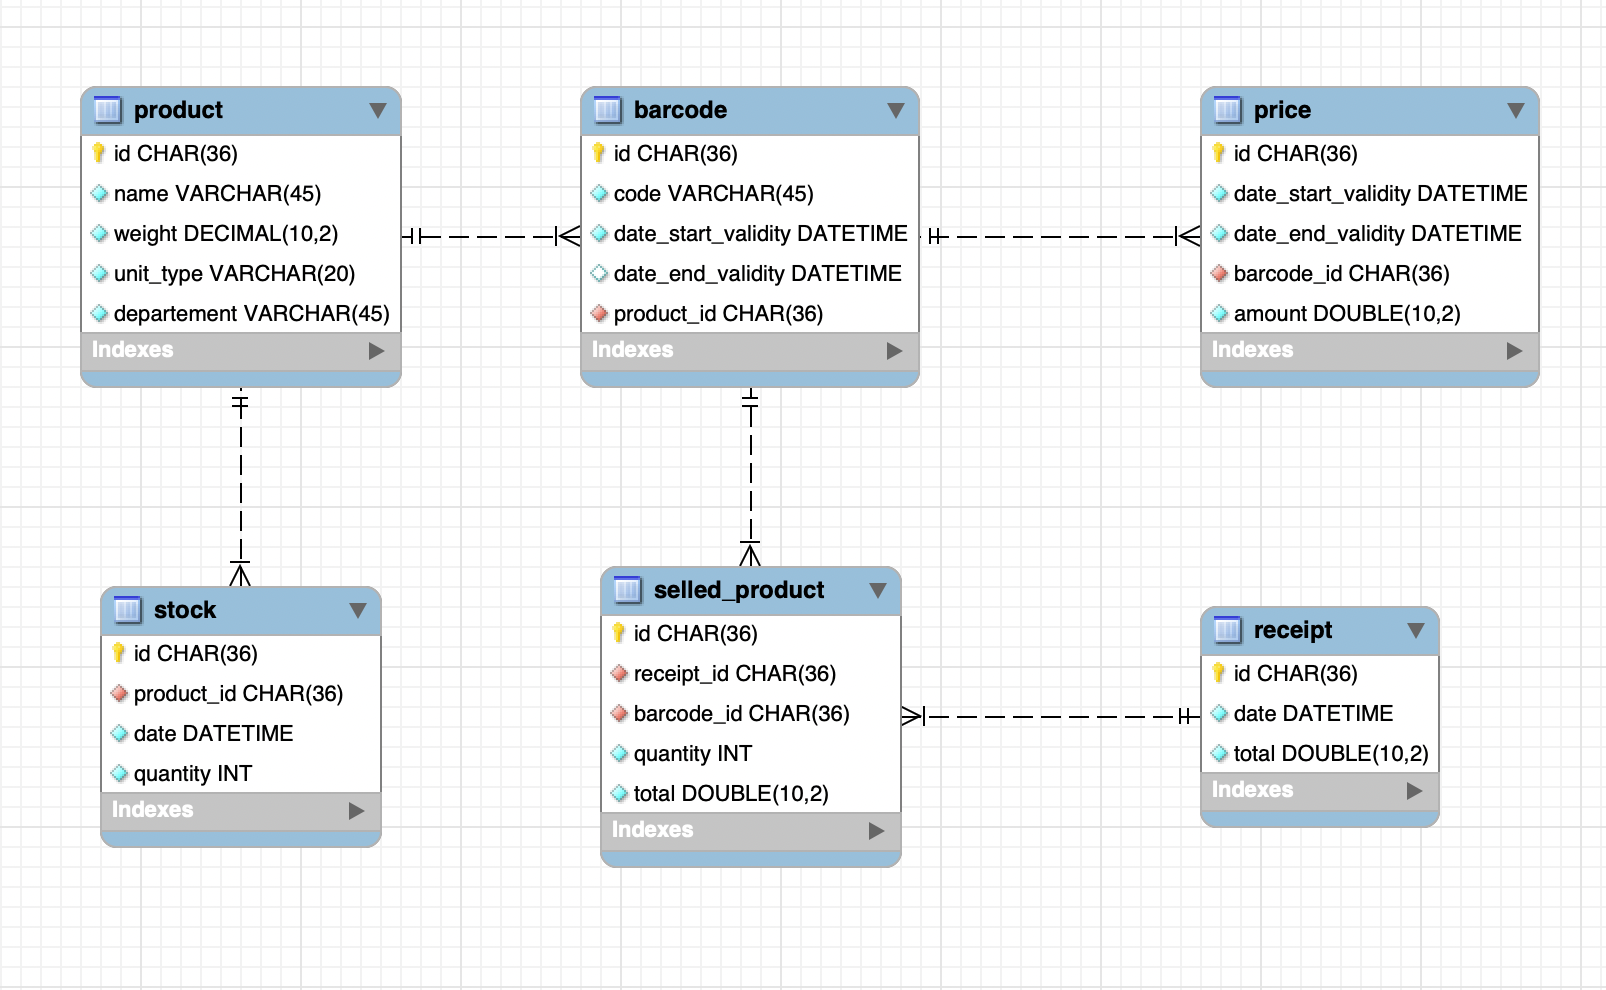
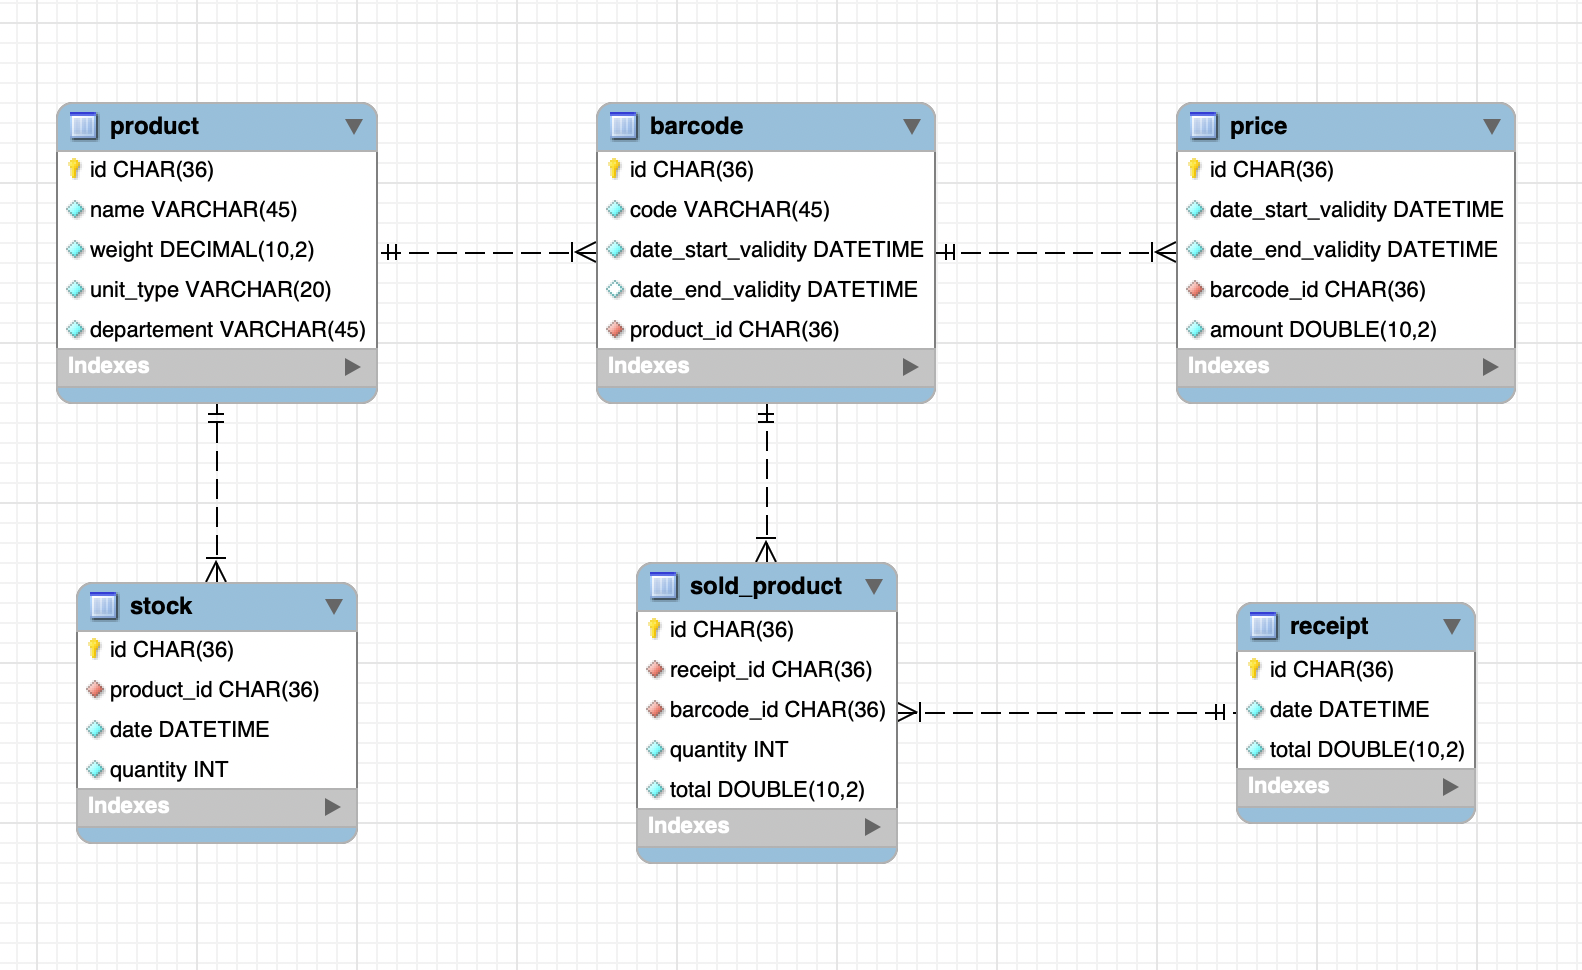
[WIP]: changed table name from 'selled_product' to 'sold_product'

diff --git a/src/main/java/ws/peoplefirst/point_of_sell/model/SoldProduct.java b/src/main/java/ws/peoplefirst/point_of_sell/model/SoldProduct.java
@@ -7,7 +7,7 @@ import java.sql.Types;
 import java.util.UUID;
 
 @Entity
-@Table(name = "selled_product")
+@Table(name = "sold_product")
 public class SoldProduct {
 
     @Id
